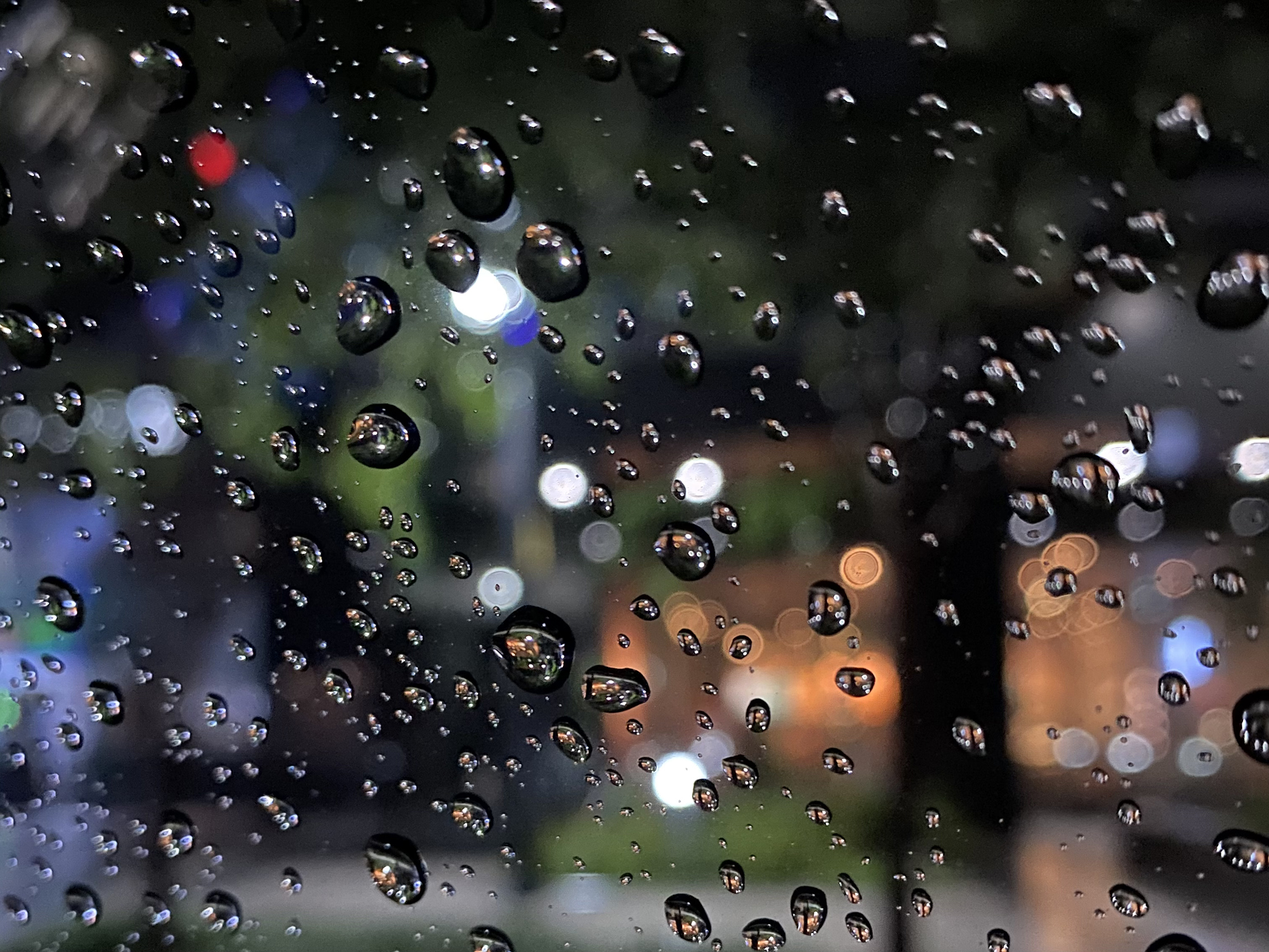
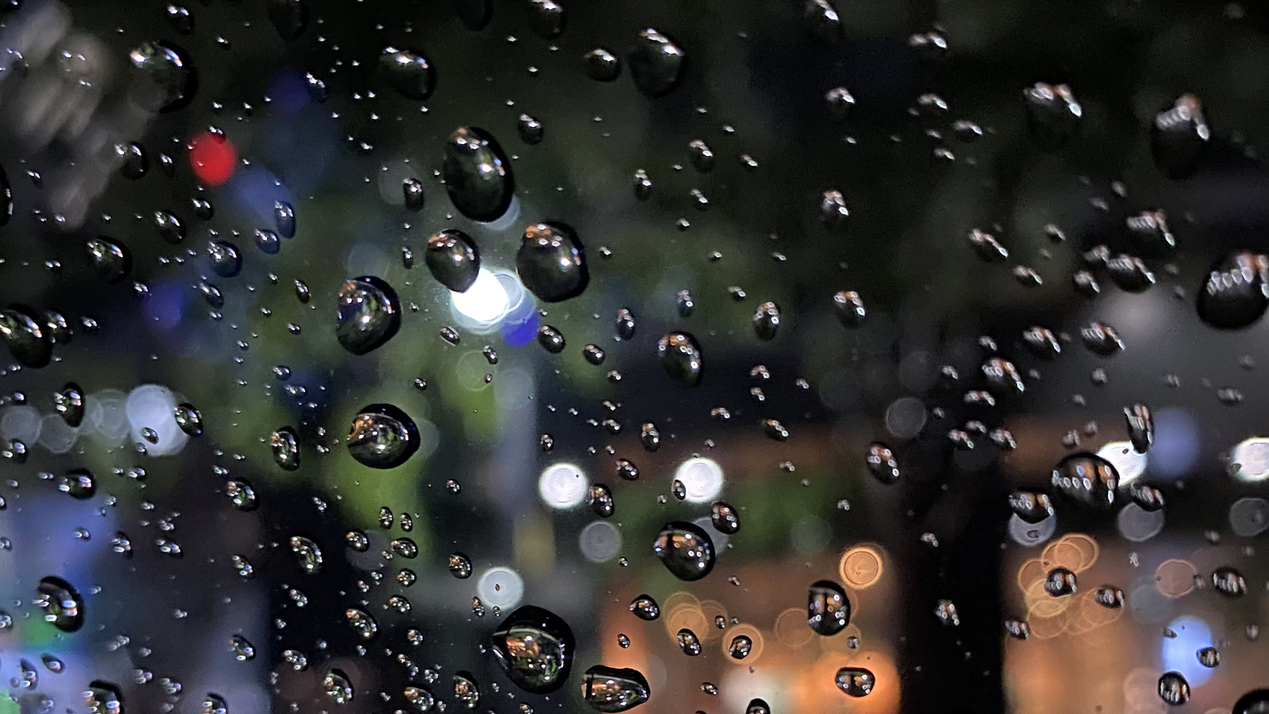
desktop background img

diff --git a/assets/background.js b/assets/background.js
@@ -1,15 +1,18 @@
 function updateBackground(mood) {
 	const bgImage = document.querySelector(".background-image img");
+	const isDesktop = window.innerWidth >= 768;
+  
 	const moodImages = {
-	  cozyjazz: "assets/images/cozyjazz.jpg",
-	  rainyday: "assets/images/rainyday.jpg",
-	  lofi: "assets/images/lofi.jpg",
-	  stressfree: "assets/images/stressfree.jpg",
-	  whitenoise: "assets/images/whitenoise.jpg",
-	  default: "assets/images/default-img.jpg"
+	  cozyjazz: isDesktop ? "cozyjazz-bg.jpg" : "cozyjazz.jpg",
+	  rainyday: isDesktop ? "rainyday-bg.jpg" : "rainyday.jpg",
+	  lofi: isDesktop ? "lofi-bg.jpg" : "lofi.jpg",
+	  stressfree: isDesktop ? "stressfree-bg.jpg" : "stressfree.jpg",
+	  whitenoise: isDesktop ? "whitenoise-bg.jpg" : "whitenoise.jpg",
+	  default: "default-img.jpg"
 	};
   
 	if (bgImage) {
-	  bgImage.src = moodImages[mood] || moodImages.default;
+	  bgImage.src = "assets/images/" + (moodImages[mood] || moodImages.default);
 	}
   }
+  

diff --git a/assets/style.css b/assets/style.css
@@ -160,6 +160,7 @@ header{
 	height: 100%;
 	z-index: -2;
 	overflow: hidden;
+	/* display:none; */
 }
 
 .background-image img {
@@ -200,6 +201,7 @@ body.stressfree{
 body.whitenoise{
 	background-image: url('assets/images/whitenoise.jpg');
 }
+
 
 section{
 	padding: 20px;
@@ -401,4 +403,28 @@ section{
 
 .hidden{
 	display:none;
+}
+
+
+
+@media (min-width: 768px) {
+	body.cozyjazz{
+		background-image: url('assets/images/cozyjazz-bg.jpg');
+	}
+	
+	body.rainyday{
+		background-image: url('assets/images/rainyday-bg.jpg');
+	}
+	
+	body.lofi{
+		background-image: url('assets/images/lofi-bg.jpg');
+	}
+	
+	body.stressfree{
+		background-image: url('assets/images/stressfree-bg.jpg');
+	}
+	
+	body.whitenoise{
+		background-image: url('assets/images/whitenoise-bg.jpg');
+	}
 }
